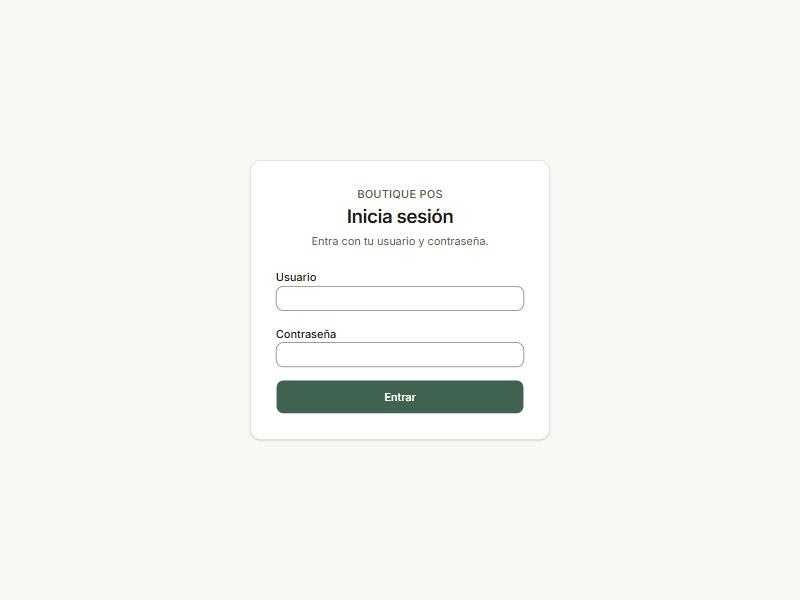
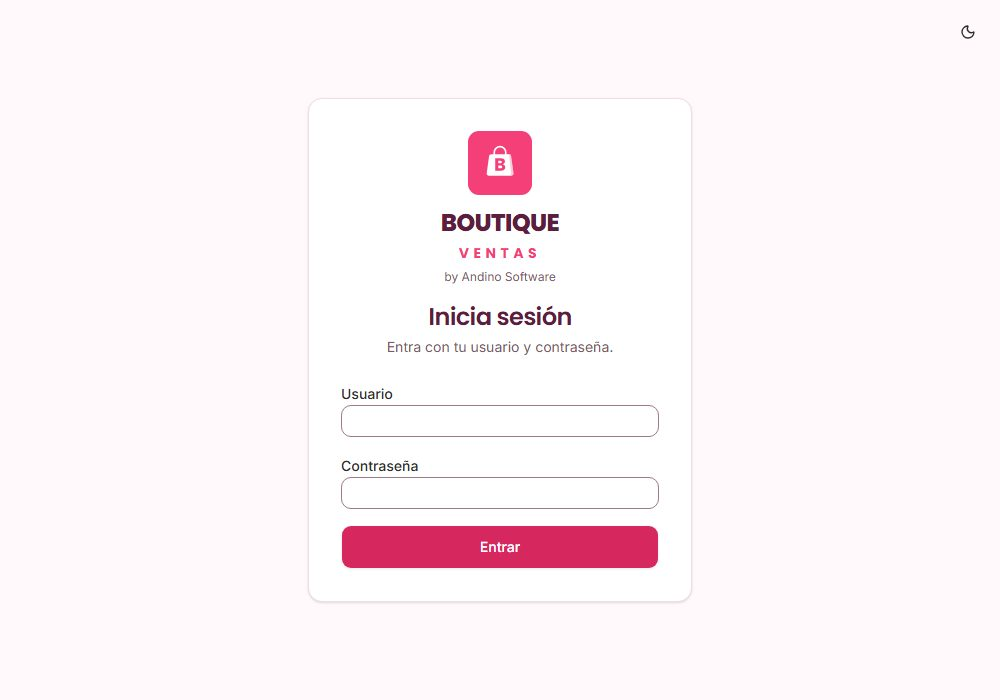
docs(manual): retake the cashier screenshots with the new brand and the cash panel inside Vender
All nine images showed the old look; they are retaken from a separate demo database (seed plus
12 months of history) and a tenth shows the opening with the float the last closing left. The
closing screenshots show the new withdrawal.

diff --git a/docs/manual/cajero.md b/docs/manual/cajero.md
@@ -7,9 +7,9 @@ Todo lo que necesitas para vender. Si algo no sale como aquí, pídele ayuda al 
 1. Entra con tu **usuario y contraseña**.
 2. Ve a **Vender**. Si no hay caja abierta, ahí mismo te pide abrirla: cuenta el efectivo con el que empiezas (el *fondo inicial*), escríbelo y pulsa **Abrir caja**. Si empiezas sin efectivo, escribe 0. **Si ayer quedó efectivo en el cajón, el fondo ya aparece puesto**: cuéntalo; si hay otra cantidad, cámbiala y explica por qué.
 
-| Entrar | Abrir caja |
-| :---: | :---: |
-| ![Pantalla de entrada](img/01-entrar.jpg) | ![Abrir caja con el fondo inicial](img/02-abrir-caja.jpg) |
+| Entrar | Abrir caja | Con el fondo del día anterior |
+| :---: | :---: | :---: |
+| ![Pantalla de entrada](img/01-entrar.jpg) | ![Abrir caja con el fondo inicial](img/02-abrir-caja.jpg) | ![Abrir caja con el fondo que dejó el último cierre](img/10-fondo-heredado.jpg) |
 
 ## 2. Vender (lo de todos los días)
 
@@ -49,9 +49,9 @@ Todo lo que necesitas para vender. Si algo no sale como aquí, pídele ayuda al 
 4. **¿Cuánto retiras?** Escribe lo que sacas del cajón para llevarlo (o para la caja de finanzas); lo que no retires **se queda en el cajón y mañana la caja abre con ese saldo**. Abajo ves cuánto queda. «Retirar todo» y «No retirar nada» te ahorran escribir.
 5. Confirma el cierre y entrega el efectivo que retiraste y el resumen al gerente.
 
-| Tu turno | Cerrar caja |
+| Tu turno (botón **Caja**) | Cerrar caja con el retiro |
 | :---: | :---: |
-| ![Resumen del turno](img/08-tu-turno.jpg) | ![Formulario de cierre](img/09-cerrar-caja.jpg) |
+| ![Panel Caja con el resumen del turno](img/08-tu-turno.jpg) | ![Cerrar caja: contar, retirar y ver cuánto queda para mañana](img/09-cerrar-caja.jpg) |
 
 **Entradas y salidas de efectivo:** si pones o sacas dinero del cajón y no es una venta (pagar a un proveedor, dar cambio), regístralo en el botón **Caja** de Vender, pestaña **Entradas y salidas**, con el motivo. Si no, el cierre no va a cuadrar.
 
